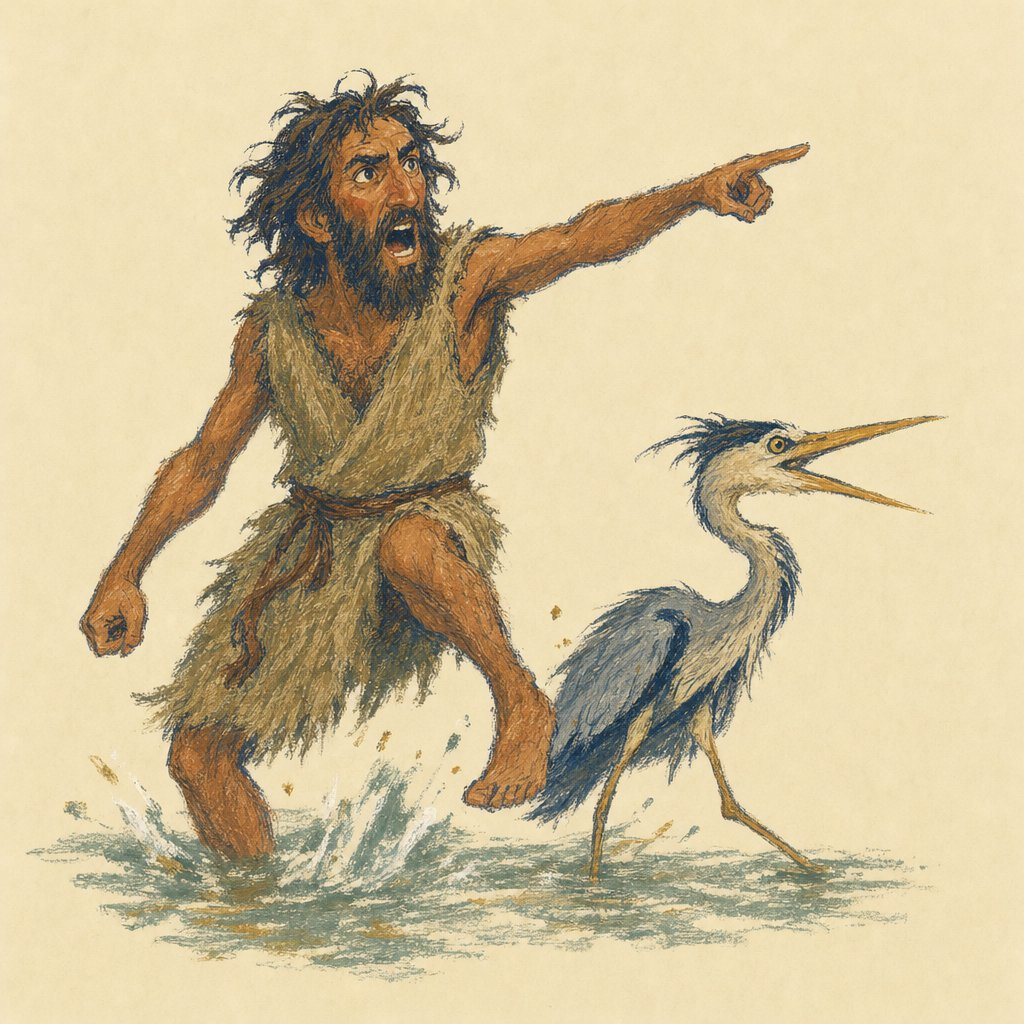
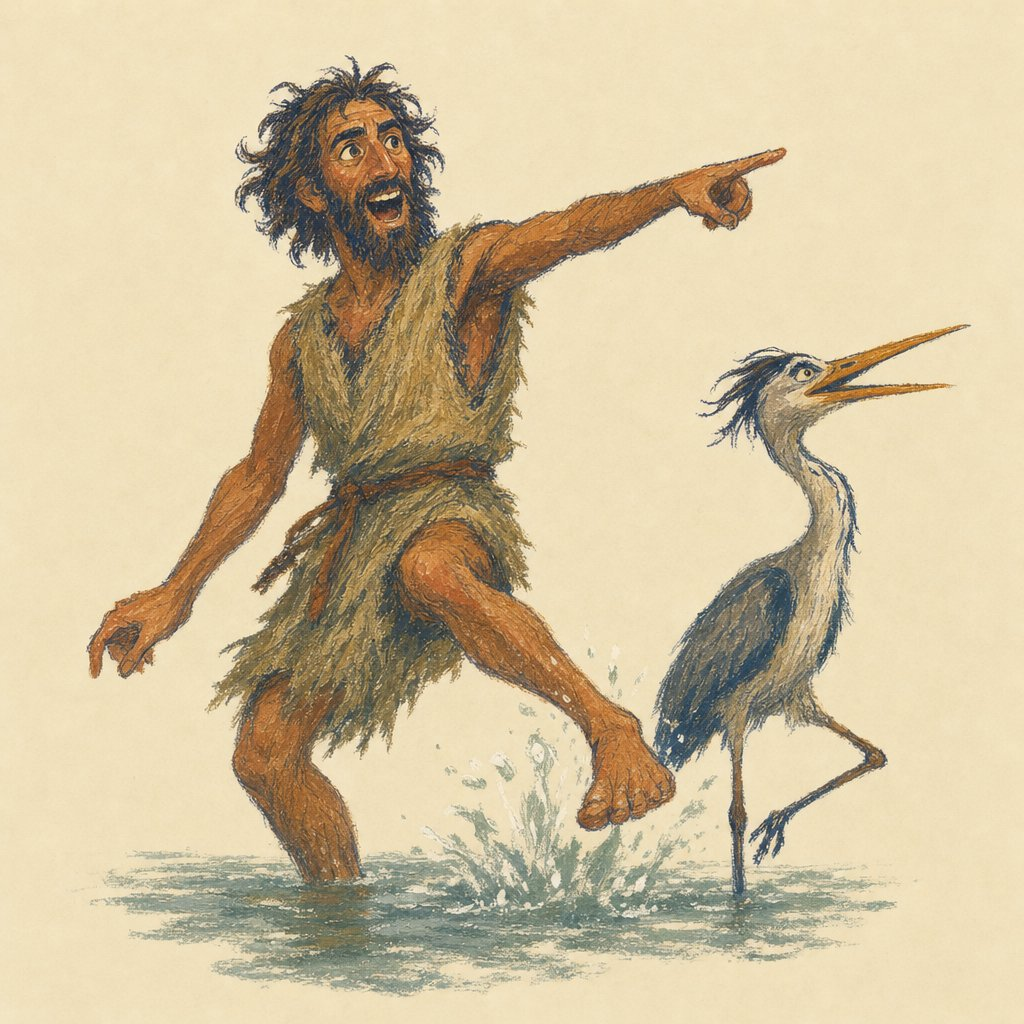
Add tetelestai picture and friendlier John the Baptist

diff --git a/book/index.html b/book/index.html
@@ -10,7 +10,7 @@ p{line-height:1.5} h2{margin-top:2em;border-bottom:1px solid #2e3a6b33}
 </style>
 <p><a href="../">← style comparison</a></p>
 <h1>The Children's Book of John — first illustrations</h1>
-<p>These are the first 69 pictures for the book, drawn in style B
+<p>These are the first 70 pictures for the book, drawn in style B
 with the new palette. Next to each one is the idea behind it. Tap a picture to
 see it full size.</p>
 <p>What do you love? What feels wrong (a face, the tone, a detail)? Is anything
@@ -39,7 +39,7 @@ missing, or does any picture not fit how you tell the story?</p>
 <a href="img/01-baptist-pointing.jpg"><img src="img/01-baptist-pointing.jpg" loading=lazy></a>
 <div><h3>The Pointing Man</h3>
 <p class=meta>Small picture</p>
-<p>John the Baptist stands knee-deep in a river, wiry and sunburnt, with hair and beard going in every direction. His whole body is a pointing arrow: arm flung out, finger stretched, one leg kicking up a splash, eyes huge with excitement. Whoever he points at is off the page to the right, so the reader&#x27;s eye follows him out of the picture. A heron beside him copies the pose with its beak. Only a few strokes of water.</p></div></div><div class=card>
+<p>John the Baptist stands knee-deep in a river, wiry and sunburnt, with wild hair and beard going in every direction. He is beaming with delight, eyes sparkling, laughing as he points: his whole body is a pointing arrow, arm flung out, finger stretched, one leg kicking up a happy splash, like someone who can&#x27;t wait for you to meet his very best friend. Wild-looking but kind and warm, not stern or shouting. Whoever he points at is off the page to the right, so the reader&#x27;s eye follows him out of the picture. A heron beside him copies the pose with its beak. Only a few strokes of water.</p></div></div><div class=card>
 <a href="img/01-portrait-peter.jpg"><img src="img/01-portrait-peter.jpg" loading=lazy></a>
 <div><h3>Simon Becomes Rock</h3>
 <p class=meta>Portrait</p>
@@ -256,6 +256,10 @@ missing, or does any picture not fit how you tell the story?</p>
 <div><h3>Look After My Mother</h3>
 <p class=meta>Full page</p>
 <p>Seen from low and slightly behind, Mary and young John stand close together at the foot of the cross. Only the bottom of the wooden cross is visible, rising out of the top of the page. John, gangly and young, has his arm wrapped around Mary&#x27;s shoulders, and she leans her head into him, her hand over her mouth. A small glow sits between them where their hands meet. The sky is wide and heavy. Show grief and love, not suffering.</p></div></div><div class=card>
+<a href="img/19-tetelestai.jpg"><img src="img/19-tetelestai.jpg" loading=lazy></a>
+<div><h3>It Is Finished!</h3>
+<p class=meta>Full page</p>
+<p>Seen from behind and a little below: Jesus on the cross on a bare hilltop, his back to us, arms stretched wide along the crossbeam, head lifted toward the sky as he cries out &#x27;It is finished!&#x27;. A plain cream cloth is wrapped around his waist and hips; his back and shoulders are drawn simply, with no wounds and no blood. Above and around him the sky has gone wild: huge swirling indigo storm clouds are tearing open, and great spirals and rays of mustard-gold and terracotta light burst through the gaps, as if all of creation is answering him. The darkness is breaking, not winning. The cross and the figure are small against the enormous sky. Awe and triumph, not horror; suitable for 8-year-olds.</p></div></div><div class=card>
 <a href="img/19-dark-tunnel.jpg"><img src="img/19-dark-tunnel.jpg" loading=lazy></a>
 <div><h3>Nothing in the Tunnel</h3>
 <p class=meta>Small picture</p>
